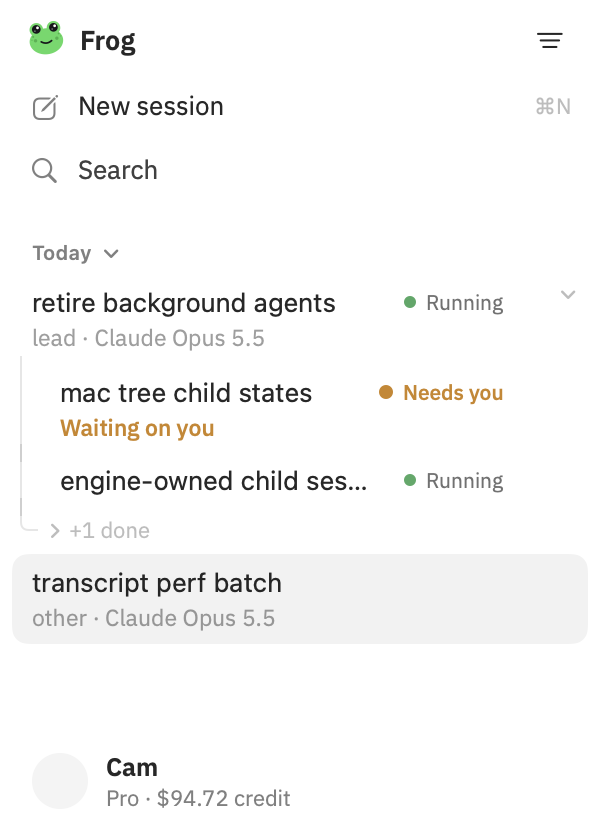
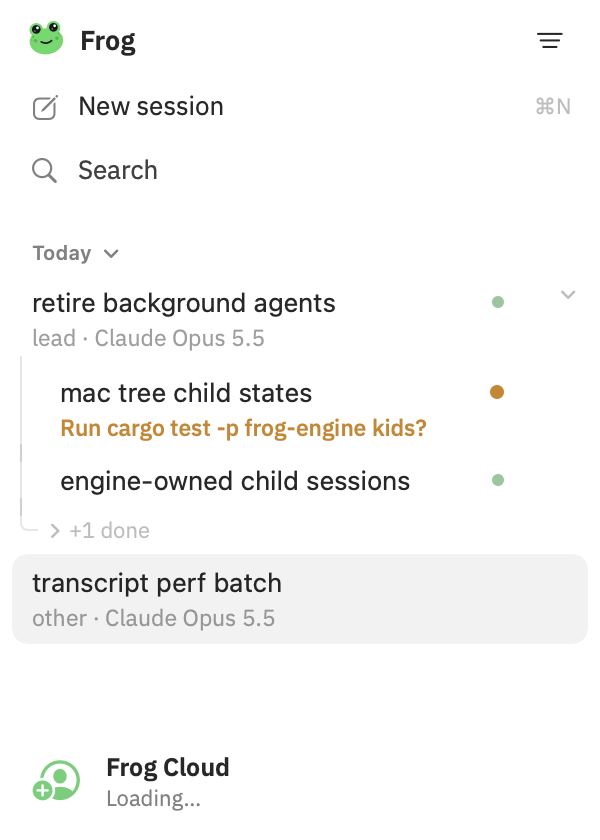
Rows: one signal per state, asks in plain words
The status dot says that (running, needs you); the second line says what. No
more "Needs you" beside "Waiting on you": the words move to the dot's
tooltip and VoiceOver label, and the line carries the ask itself, phrased as
one short question ("Run cargo test?", "Edit fetch.ts?", not "Can I bash…").
Shared phrasing: FrogKit AskPhrase and web ui/ask.ts, both tested. An
unloaded session that needs you shows its ask too when the Mac knows it.

diff --git a/apps/macos/Frog/Views/RowLine.swift b/apps/macos/Frog/Views/RowLine.swift
@@ -16,14 +16,15 @@ extension Library {
         var line = RowLine()
         if case .pr(let n)? = GitIndex.shared.badge(s)?.landed { line.pr = n }
         guard let c = conversation(s.id) else {
-            if live[s.id] == .waiting { line.text = "Waiting on you"; line.tint = Tokens.signal }
+            // The dot says it needs you; the line says what (or, unknown, just that).
+            if live[s.id] == .waiting { line.text = asking(s.id) ?? "Waiting on you"; line.tint = Tokens.signal }
             return line
         }
         line.turns = c.turns.count
         if let q = c.question {
             line.text = q.question; line.tint = Tokens.signal
         } else if let p = c.permission {
-            // The actual ask, as on the web: "Can I bash cargo test -q upload?".
+            // The actual ask, as on the web: "Run cargo test -q?".
             line.text = Self.askLine(p); line.tint = Tokens.signal
         } else if c.elicitation != nil {
             line.text = "Waiting on you"; line.tint = Tokens.signal
@@ -35,10 +36,9 @@ extension Library {
         return line
     }
 
-    /// A permission request as a question: "Can I bash cargo test -q upload?".
+    /// A permission request as a question: "Run cargo test -q?" (see `AskPhrase`).
     static func askLine(_ p: PermissionRequest) -> String {
-        let arg = p.arg.split(separator: "\n").first.map(String.init) ?? ""
-        return "Can I \(p.name.lowercased())" + (arg.isEmpty ? "?" : " \(arg)?")
+        AskPhrase.line(name: p.name, arg: p.arg)
     }
 
     /// The first line of the last thing Frog said.

diff --git a/apps/web/src/ui/SessionList.tsx b/apps/web/src/ui/SessionList.tsx
@@ -5,6 +5,7 @@ import type { Thread } from '../engine/thread'
 import { outOfCredits, peek } from '../store'
 import { plainError } from '../errors'
 import { useLayer, useMenu } from './layers'
+import { askLine } from './ask'
 import { indented } from './nest'
 
 // The sidebar's sessions, after the Mac's: quiet one-line rows filed under days, a glyph only
@@ -14,7 +15,7 @@ import { indented } from './nest'
 type Glyph = 'run' | 'ask' | 'unread' | 'fail' | 'paused' | null
 
 function look(s: SessionSummary, t: Thread, unread: boolean): { glyph: Glyph; detail: string | null } {
-  if (t.ask) return { glyph: 'ask', detail: `Can I ${t.ask.name.toLowerCase()} ${t.ask.arg}?` }
+  if (t.ask) return { glyph: 'ask', detail: askLine(t.ask.name, t.ask.arg) }
   if (t.question) return { glyph: 'ask', detail: t.question.question }
   if (t.elicitation) return { glyph: 'ask', detail: `${t.elicitation.server} needs your input` }
   if (outOfCredits(t)) return { glyph: 'paused', detail: 'Paused · out of credits' }
@@ -199,7 +200,7 @@ export function SessionList(p: {
                 {s.pr.replace(/^#/, '')}
               </span>
             )}
-            {status ? <span className={`sstate sstate-${glyph}`}><span className={`sg sg-${glyph}`} />{status}</span>
+            {status ? <span className={`sstate sstate-${glyph}`} title={status} aria-label={status}><span className={`sg sg-${glyph}`} />{glyph === 'run' || glyph === 'ask' ? null : status}</span>
               : glyph === 'unread' ? <span className="sg sg-unread" aria-label="New" />
               : null}
           </span>

diff --git a/apps/FrogKit/UI/Sessions/SessionRows.swift b/apps/FrogKit/UI/Sessions/SessionRows.swift
@@ -102,18 +102,14 @@ struct RowStatusView: View {
 
     var body: some View {
         switch status {
+        // One signal per state: the dot says that, the row's second line says what (the
+        // step in hand, the ask). The words live in the tooltip and for VoiceOver.
         case .running:
-            HStack(spacing: 5) {
-                BreathingDot(live: true)
-                Text("Running").foregroundStyle(Tokens.textSecondary)
-            }
-            .font(.frog(size: Tokens.Size.label))
+            BreathingDot(live: true)
+                .help("Running").accessibilityLabel("Running")
         case .needsYou:
-            // As on the web: an orange dot, then the words.
-            HStack(spacing: 5) {
-                Circle().fill(Tokens.signal).frame(width: 7, height: 7)
-                Text("Needs you").font(.frog(size: Tokens.Size.label, weight: .medium)).foregroundStyle(Tokens.signal)
-            }
+            Circle().fill(Tokens.signal).frame(width: 7, height: 7)
+                .help("Needs you").accessibilityLabel("Needs you")
         case .failed:
             Text("Failed").font(.frog(size: Tokens.Size.label, weight: .medium)).foregroundStyle(Tokens.fail)
         case .pr(let n):

diff --git a/apps/web/src/App.tsx b/apps/web/src/App.tsx
@@ -18,6 +18,7 @@ import { Starting } from './ui/Starting'
 import { creditLine, Palette, Settings, type Command, type SettingsTab } from './ui/Overlays'
 import { Transcript } from './ui/Transcript'
 import { safeHref } from './ui/href'
+import { askLine } from './ui/ask'
 import { sessionMissing } from './ui/guards'
 
 /** `pick`: open the composer's repo menu (back from sign-in, or ⌘K Connect a repo). */
@@ -168,7 +169,7 @@ export default function App() {
   // Recomputed per frame (cheap), but handed on only when a signal actually changed.
   const signals = useMemo(() => sessions.map((s) => {
     const t = thread(s.id)
-    const waiting = t.ask ? `Can I ${t.ask.name.toLowerCase()} ${t.ask.arg}?` : t.question ? t.question.question : t.elicitation ? `${t.elicitation.server} needs your input` : null
+    const waiting = t.ask ? askLine(t.ask.name, t.ask.arg) : t.question ? t.question.question : t.elicitation ? `${t.elicitation.server} needs your input` : null
     return { id: s.id, title: t.title ?? s.title, waiting, finished: !t.running && t.ended?.type === 'complete' }
   }), [sessions, thread, threads])
   const signalKey = JSON.stringify(signals)

diff --git a/apps/FrogKit/Core/AskPhrase.swift b/apps/FrogKit/Core/AskPhrase.swift
@@ -1,0 +1,21 @@
+import Foundation
+
+/// A permission request as one short question a person reads at a glance — the row's second
+/// line under the "needs you" dot: "Run cargo test?", "Edit fetch.ts?", never "Can I bash…".
+/// The web's twin is `askLine` in apps/web/src/ui/ask.ts.
+enum AskPhrase {
+    static func line(name: String, arg: String) -> String {
+        let first = arg.split(separator: "\n").first.map { $0.trimmingCharacters(in: .whitespaces) } ?? ""
+        let file = (first as NSString).lastPathComponent
+        switch name {
+        case "Bash", "Shell": return first.isEmpty ? "Run a command?" : "Run \(first)?"
+        case "Edit", "MultiEdit": return first.isEmpty ? "Edit a file?" : "Edit \(file)?"
+        case "Write": return first.isEmpty ? "Write a file?" : "Write \(file)?"
+        case "Read": return first.isEmpty ? "Read a file?" : "Read \(file)?"
+        case "WebFetch":
+            let host = URL(string: first)?.host ?? first
+            return host.isEmpty ? "Open a web page?" : "Open \(host)?"
+        default: return first.isEmpty ? "Allow \(name)?" : "Allow \(name) \(first)?"
+        }
+    }
+}

diff --git a/apps/web/src/ui/ask.ts b/apps/web/src/ui/ask.ts
@@ -1,0 +1,18 @@
+// A permission request as one short question, read at a glance under the "needs you" dot:
+// "Run cargo test?", "Edit fetch.ts?". The Mac's twin is FrogKit's `AskPhrase.line`.
+export function askLine(name: string, arg: string): string {
+  const first = (arg.split('\n')[0] ?? '').trim()
+  const file = first.split('/').pop() ?? first
+  switch (name) {
+    case 'Bash': case 'Shell': return first ? `Run ${first}?` : 'Run a command?'
+    case 'Edit': case 'MultiEdit': return first ? `Edit ${file}?` : 'Edit a file?'
+    case 'Write': return first ? `Write ${file}?` : 'Write a file?'
+    case 'Read': return first ? `Read ${file}?` : 'Read a file?'
+    case 'WebFetch': {
+      let host = first
+      try { host = new URL(first).host || first } catch { /* not a URL */ }
+      return host ? `Open ${host}?` : 'Open a web page?'
+    }
+    default: return first ? `Allow ${name} ${first}?` : `Allow ${name}?`
+  }
+}

diff --git a/apps/macos/FrogTests/AskPhraseTests.swift b/apps/macos/FrogTests/AskPhraseTests.swift
@@ -1,0 +1,12 @@
+import XCTest
+@testable import Frog
+
+/// A row's ask reads as one plain question under the needs-you dot (the web's ask.test.ts).
+final class AskPhraseTests: XCTestCase {
+    func testAsksReadAsPlainQuestions() {
+        XCTAssertEqual(AskPhrase.line(name: "Bash", arg: "cargo test -q\nmore"), "Run cargo test -q?")
+        XCTAssertEqual(AskPhrase.line(name: "Edit", arg: "src/fetch.ts"), "Edit fetch.ts?")
+        XCTAssertEqual(AskPhrase.line(name: "WebFetch", arg: "https://docs.rs/x"), "Open docs.rs?")
+        XCTAssertEqual(AskPhrase.line(name: "Mcp", arg: ""), "Allow Mcp?")
+    }
+}

diff --git a/apps/web/test/ask.test.ts b/apps/web/test/ask.test.ts
@@ -1,0 +1,11 @@
+// The row's ask reads as one plain question, the same words as the Mac's.
+import { test } from "node:test";
+import assert from "node:assert/strict";
+import { askLine } from "../src/ui/ask.ts";
+
+test("asks read as plain questions", () => {
+  assert.equal(askLine("Bash", "cargo test -q\nmore"), "Run cargo test -q?");
+  assert.equal(askLine("Edit", "src/fetch.ts"), "Edit fetch.ts?");
+  assert.equal(askLine("WebFetch", "https://docs.rs/x"), "Open docs.rs?");
+  assert.equal(askLine("Mcp", ""), "Allow Mcp?");
+});

diff --git a/apps/macos/FrogTests/SidebarSnapshotTests.swift b/apps/macos/FrogTests/SidebarSnapshotTests.swift
@@ -216,7 +216,7 @@ final class SidebarSnapshotTests: XCTestCase {
                 sessions: sessions,
                 live: ["lead": .running, "engine": .running, "tree": .waiting],
                 parents: ["engine": "lead", "tree": "lead", "webnest": "lead"],
-                asks: ["tree": "Bash cargo test -p frog-engine kids"])
+                asks: ["tree": AskPhrase.line(name: "Bash", arg: "cargo test -p frog-engine kids")])
         }
         restage()
         GitIndex.shared.stage([
